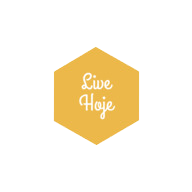
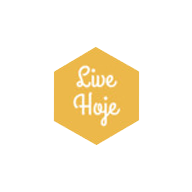
ajuste layout

Changed region(s): [[0.375, 0.3125, 0.625, 0.6562]]

diff --git a/src/pages/Home.js b/src/pages/Home.js
@@ -1,15 +1,17 @@
 import React, { useState, useEffect } from "react";
-import { View, Text, ScrollView, StyleSheet, Button } from "react-native";
+import { View, Text, ScrollView, Image, TouchableOpacity } from "react-native";
 import GestureRecognizer from "react-native-swipe-gestures";
 import { useNavigation } from "@react-navigation/native";
 import { Header, ListItem, Icon } from "react-native-elements";
 
-import $commons from "./Commons";
+import $commons from "./commons";
+
+import Logo from "../../assets/icon.png"
+
+let lives = {};
+let day = $commons.getDay();
 
 export default function Home() {
-    let lives = {};
-    let day = $commons.getDay();
-
     let [liveToday, setLiveToday] = useState([]);
 
     const navigation = useNavigation();
@@ -33,7 +35,7 @@ export default function Home() {
     }
 
     function after() {
-        day = $commons.add(day);
+        day = $commons.addDay(day);
 
         if (!lives.data[day]) {
             return;
@@ -42,8 +44,8 @@ export default function Home() {
         setLiveToday(lives.data[day].lives);
     }
 
-    async function loadStart() {
-        lives = await $commons.listAll();
+    function loadStart() {
+        lives = $commons.listAll();
         setLiveToday(lives.data[day].lives);
     }
 
@@ -51,45 +53,61 @@ export default function Home() {
         return $commons.format(day, 'dddd').toUpperCase();
     }
 
+    const LeftComponenttHeader = () => {
+        return (
+            <Icon size={40} color="#fff" name="chevron-left" type="entypo" onPress={before} />
+        )
+    }
+
+    const RightComponenttHeader = () => {
+        return (
+            <Icon size={40} color="#fff" name="chevron-right" type="entypo" onPress={after} />
+        )
+    }
+
+    const CenterComponentHeader = () => {
+        return (
+            <Image
+                style={{ width: 160, height: 160 }}
+                source={Logo}
+            />
+        )
+    }
+
     return (
         <>
-            <GestureRecognizer onSwipeLeft={after} onSwipeRight={before}>
+            <ScrollView>
+                {/* <GestureRecognizer onSwipeLeft={after} onSwipeRight={before}> */}
                 <Header
-                    containerStyle={{ backgroundColor: "#af2b2b" }}
-                    leftComponent={{
-                        icon: "left",
-                        color: "#fff",
-                        type: "antdesign",
-                        onPress: before,
-                    }}
-                    rightComponent={{
-                        icon: "right",
-                        color: "#fff",
-                        type: "antdesign",
-                        onPress: after,
-                    }}
-                    centerComponent={{
-                        text: `LIVES ${getDay()} ${$commons.format(day, "DD/MM")}`,
-                        style: { color: "#fff" },
+                    leftComponent={<LeftComponenttHeader />}
+                    rightComponent={<RightComponenttHeader />}
+                    centerComponent={<CenterComponentHeader />}
+                    linearGradientProps={{
+                        colors: ['#e9a514', '#f4c96d'],
+                        start: { x: 0.5, y: 0.5 },
+                        end: { x: 1, y: 1 },
                     }}
                 />
 
-                <ScrollView>
-                    {liveToday.map((item, index) => (
-                        <ListItem
-                            key={index}
-                            title={`${item.horario} - ${item.description}`}
-                            bottomDivider
-                            chevron={{ onPress: () => viewDetails(item) }}
-                            rightIcon={{
-                                name: "bell-off",
-                                type: "feather",
-                            }}
-                        />
-                    ))}
-                    <View style={{ height: 30 }}></View>
-                </ScrollView>
-            </GestureRecognizer>
+                <Text style={{ textAlign: "center", marginTop: 15, marginBottom: 5, fontSize: 18, color: "#575757" }}>
+                    {`${$commons.format(day, "DD/MM")} - ${getDay()}`}
+                </Text>
+
+
+                {liveToday.map((item, index) => (
+                    <ListItem
+                        key={index}
+                        title={`${item.horario} - ${item.description}`}
+                        bottomDivider
+                        chevron={{ onPress: () => viewDetails(item) }}
+                        rightIcon={{
+                            name: "bell-off",
+                            type: "feather",
+                        }}
+                    />
+                ))}
+                {/* </GestureRecognizer> */}
+            </ScrollView>
         </>
     );
 }

diff --git a/src/pages/Detail.js b/src/pages/Detail.js
@@ -1,15 +1,12 @@
 import React, { useState, useEffect } from "react";
-import { View, TouchableOpacity, Text } from "react-native";
+import { View, TouchableOpacity, Text, Image } from "react-native";
 import { Card, Header, Icon } from "react-native-elements";
-
 import * as Linking from "expo-linking";
-
-import Style from "./Style";
-
-import moment from "moment/min/moment-with-locales";
-moment.locale("pt-BR");
-
 import { useNavigation } from "@react-navigation/native";
+
+import $commons from "./commons";
+
+import Logo from "../../assets/icon.png"
 
 const TIPO_AVISO = {
     false: {
@@ -23,18 +20,13 @@ const TIPO_AVISO = {
 };
 
 export default function Detail({ route }) {
-    let [aviso, setAviso] = useState(false);
-
+    const navigation = useNavigation();
     const { params } = route;
 
-    const navigation = useNavigation();
+    let [aviso, setAviso] = useState(false);
 
     function backRouter() {
         navigation.navigate("Home");
-    }
-
-    function getDay(day) {
-        return moment(day).format("dddd").toUpperCase();
     }
 
     function changeAviso() {
@@ -46,19 +38,30 @@ export default function Detail({ route }) {
         Linking.openURL(url);
     }
 
+    const LeftComponenttHeader = () => {
+        return (
+            <Icon size={40} color="#fff" name="chevron-left" type="entypo" onPress={backRouter} />
+        )
+    }
+
+    const CenterComponentHeader = () => {
+        return (
+            <Image
+                style={{ width: 160, height: 160 }}
+                source={Logo}
+            />
+        )
+    }
+
     return (
         <>
             <Header
-                containerStyle={{ backgroundColor: "#af2b2b" }}
-                leftComponent={{
-                    icon: "left",
-                    color: "#fff",
-                    type: "antdesign",
-                    onPress: backRouter,
-                }}
-                centerComponent={{
-                    text: "DADOS DA LIVE",
-                    style: { color: "#fff" },
+                leftComponent={<LeftComponenttHeader />}
+                centerComponent={<CenterComponentHeader />}
+                linearGradientProps={{
+                    colors: ['#e9a514', '#f4c96d'],
+                    start: { x: 0.5, y: 0.5 },
+                    end: { x: 1, y: 1 },
                 }}
             />
 
@@ -67,7 +70,7 @@ export default function Detail({ route }) {
                     <View style={{ flex: 1 }}>
                         <Icon
                             size={35}
-                            style={Style.iconBoxPosistionDetail}
+                            style={{ width: "85%", fontSize: 18 }}
                             type="material-community"
                             name="artist"
                         />
@@ -115,7 +118,7 @@ export default function Detail({ route }) {
                             />
                         </View>
                         <Text style={{ flex: 4, fontSize: 15 }}>
-                            {getDay(params.dia)}
+                            {$commons.format(params.dia, "dddd").toUpperCase()}
                         </Text>
                     </View>
                 </View>

diff --git a/src/pages/commons.js b/src/pages/commons.js
@@ -1,20 +1,28 @@
 const URL_GIT = "https://raw.githubusercontent.com/guilhermerebelo/json/master/file.json";
 const LOCAL_DATE = "YYYY-MM-DD";
 
+const color = "#ecb84a";
+
+// e9a514
+// f4c96d
+
 import moment from "moment/min/moment-with-locales";
 import axios from "axios";
+import data from "./helper";
 
 moment.locale("pt-BR");
 
 export default {
     // request
     axios,
-    listAll: () => axios.get(URL_GIT),
+    listAll: () => { return { data } },
 
     // moment
     moment,
     getDay: () => moment().format(LOCAL_DATE),
     subtractDay: (day) => moment(day).subtract(1, "day").format(LOCAL_DATE),
     addDay: (day) => moment(day).add(1, "day").format(LOCAL_DATE),
-    format: (day, format) => moment(day).format(format)
+    format: (day, format) => moment(day).format(format),
+
+    color
 }
